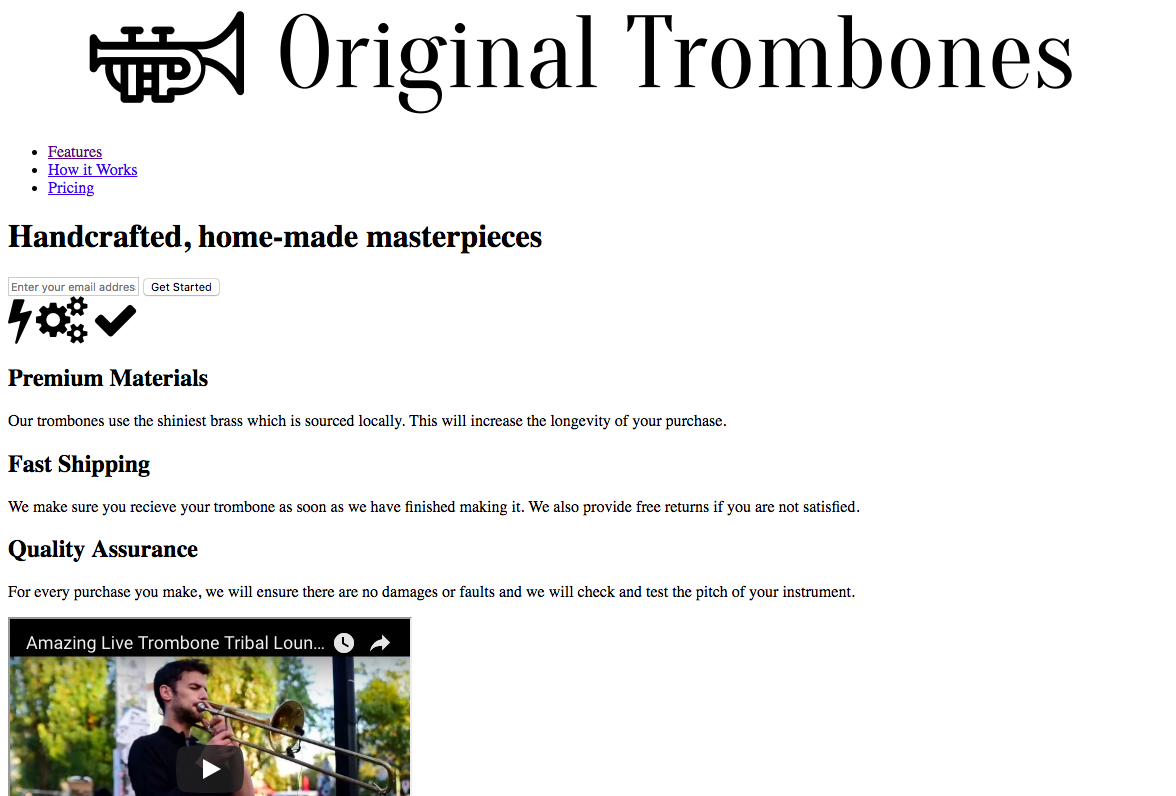
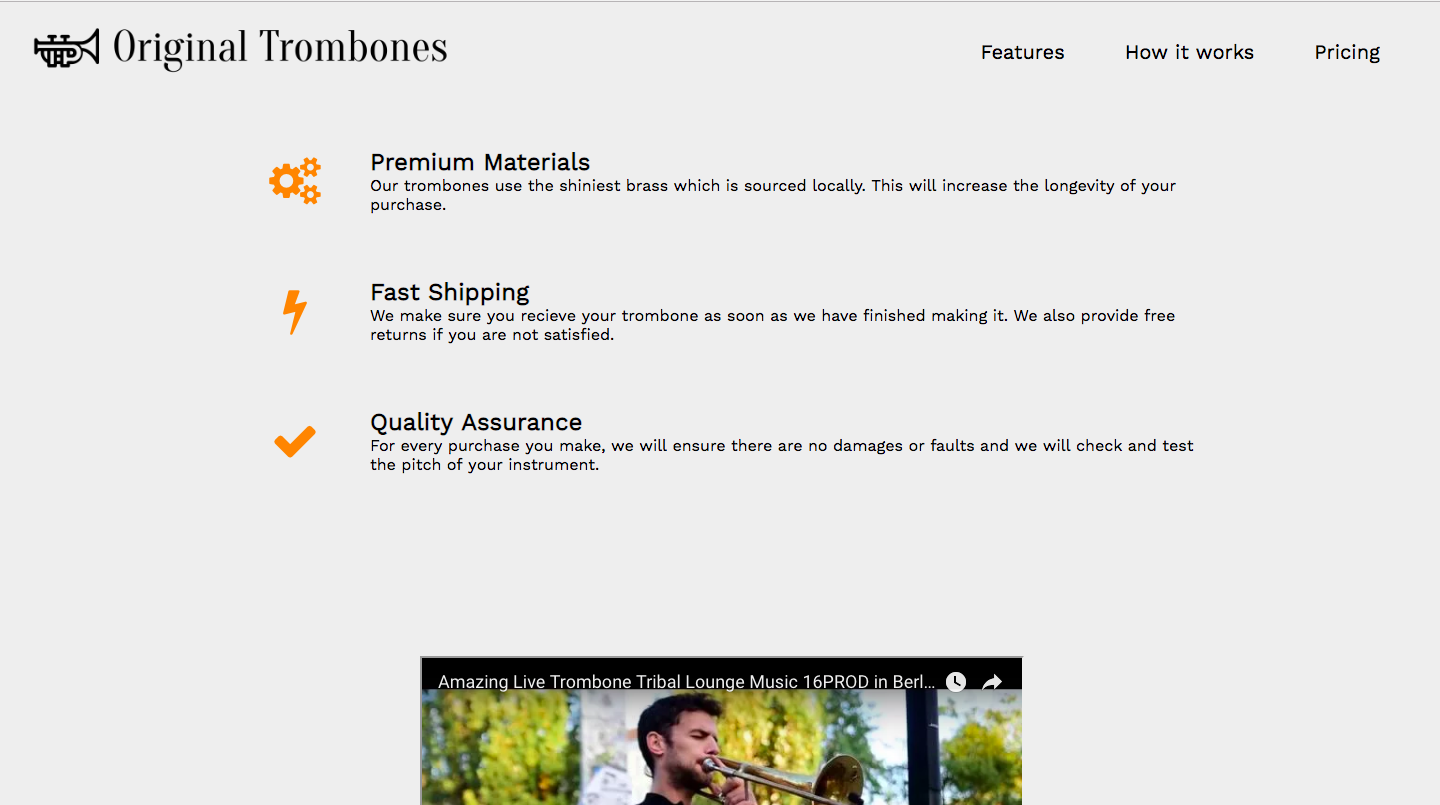
added updated technical doc and landing page

diff --git a/index.html b/index.html
@@ -64,8 +64,12 @@
 					<p align=center class="project-text"> Gordon Ramsay Tribute </p>
 				</div>
 				<div class = "project-tile">
-					<a href="https://codepen.io/leal1/pen/gdgLwb" target="_blank" class="project" > <img src="Landing_page.png" class="project-pic" alt="Landing Page"> </a>
-					<p align=center class="project-text"> Landing Page (IN PROGRESS) </p>
+					<a href="https://codepen.io/leal1/pen/OoWeZO" target="_blank" class="project" > <img src="Landing_page.png" class="project-pic" alt="Landing Page"> </a>
+					<p align=center class="project-text"> Landing Page </p>
+				</div>
+				<div class = "project-tile">
+					<a href="https://codepen.io/leal1/pen/RYJBpN" target="_blank" class="project" > <img src="technicaldoc.png" class="project-pic" alt="Technical Documentation"> </a>
+					<p align=center class="project-text"> Technical Documentation </p>
 				</div>
 			</div>
 		</section>
